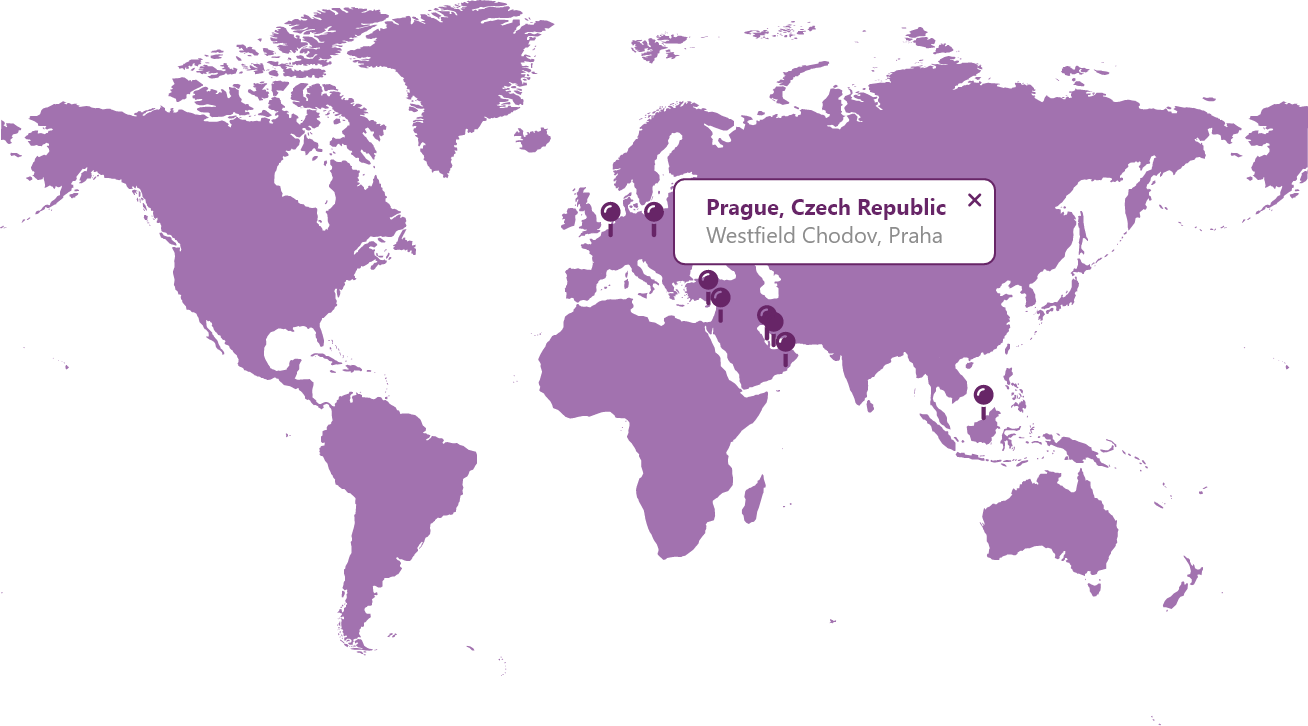
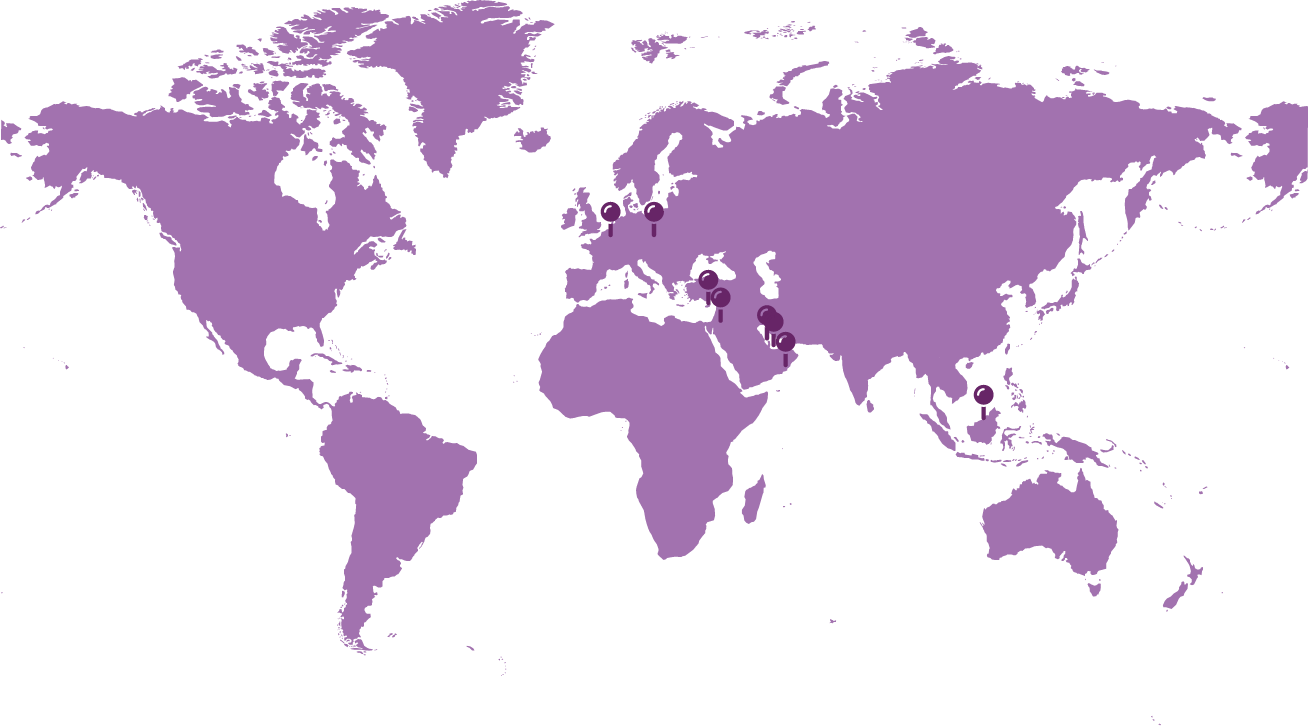
Update from Shopify for theme Cookie_Dough/master
Committed from shop: Netling Digital

Changed region(s): [[0.4893, 0.2424, 0.7645, 0.3636]]

diff --git a/assets/main.css b/assets/main.css
@@ -5742,3 +5742,64 @@ gourav
 #shopify-section-footer {
   margin-top: auto;
 }
+
+/* map */
+.map {
+  position: relative;
+}
+
+.map .map-popup {
+  max-width: 320px;
+  position: absolute;
+  left: 50%;
+  top: 12%;
+  -webkit-transform: translate(-50%, -12%);
+  -ms-transform: translate(-50%, -12%);
+  transform: translate(-50%, -12%);
+  padding: 12px 40px 13px 28px;
+  background-color: #fff;
+  border: 2px solid #672567;
+  border-radius: 10px;
+  display: none;
+}
+
+.map .map-popup .icon {
+  display: -webkit-inline-flex;
+  display: -ms-inline-flexbox;
+  display: inline-flex;
+  -webkit-align-items: center;
+  -ms-flex-align: center;
+  align-items: center;
+  font-size: 39px;
+  font-weight: lighter;
+  position: absolute;
+  right: 12px;
+  top: 13px;
+  height: 15px;
+}
+
+.map .map-popup p {
+  margin-bottom: 0;
+  font-size: 1.375rem;
+  font-weight: bold;
+  line-height: calc(28 / 22);
+}
+
+.map .map-popup p.place-name {
+  font-weight: 400;
+  color: #8D8D8D;
+}
+
+@media (max-width: 767px) {
+  .map .map-popup {
+    max-width: unset;
+    width: 100%;
+    padding: 12px;
+    padding-right: 26px;
+  }
+
+  .map .map-popup p {
+    font-size: 1.125rem;
+    line-height: calc(22 / 18);
+  }
+}

diff --git a/assets/main.js b/assets/main.js
@@ -232,3 +232,14 @@ $('.carousel5').slick({
 $(window).load(function () {
   objectFitImages();
 });
+
+
+$(".map-popup .icon").on("click", function () {
+  $(".map-popup").hide();
+});
+function showModal(popup_id) {
+  $("#" + popup_id).show();
+  $(this).on("mouseleave", function () {
+    $("#" + popup_id).hide();
+  });
+}
